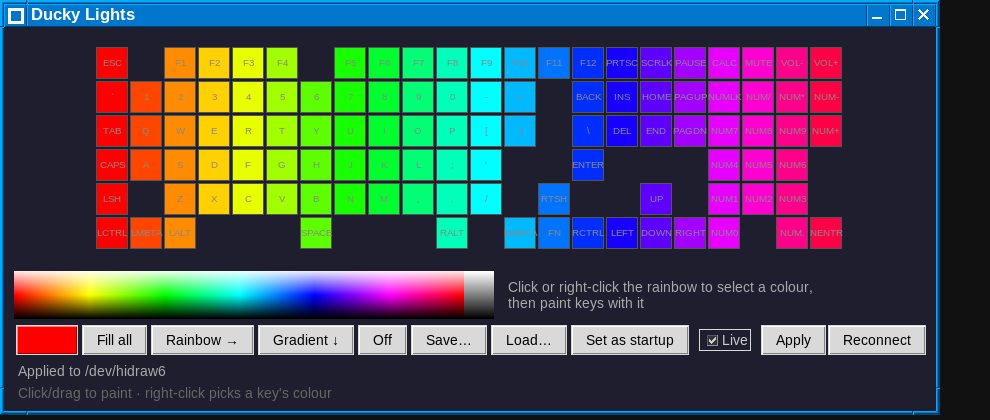
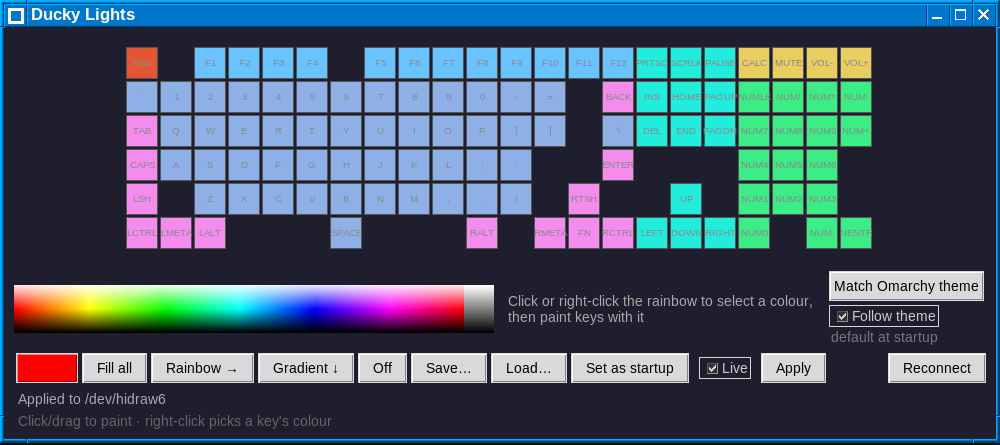
Follow the Omarchy theme by default; keep the UI responsive; panel/service lock
- Startup pattern defaults to the Omarchy theme when none is saved
- Keyboard writes run on a worker thread and fail fast, so the UI never blocks
- Panel holds a flock so the service steps aside while it is open
- Fix right Shift grouping, clipped Follow theme control, refresh screenshot

diff --git a/ducky_lights.py b/ducky_lights.py
@@ -4,11 +4,13 @@
 Protocol from javitonino/duckylights (GPL-2.0). No dependencies beyond Tk.
 """
 import colorsys
+import fcntl
 import glob
 import json
 import os
 import select
 import sys
+import threading
 import tomllib
 import tkinter as tk
 from tkinter import colorchooser, filedialog, messagebox
@@ -18,6 +20,7 @@ ROWS, COLS = 6, 22
 PAL_W, PAL_H = 480, 48
 PROFILE_DIR = os.path.expanduser('~/.config/ducky-lights')
 THEME = os.path.expanduser('~/.local/state/omarchy/current/theme/colors.toml')
+LOCK = os.path.expanduser('~/.cache/ducky-lights/panel.lock')  # held by the panel while open
 ACTIVE = os.path.join(PROFILE_DIR, 'active.json')  # applied at login by the service
 
 # Inferred from the duckylights ES layout; colour index is col * ROWS + row.
@@ -66,8 +69,9 @@ class Keyboard:
     def _write(self, hexmsg):
         data = bytes.fromhex(hexmsg).ljust(64, b'\0')
         os.write(self.fd, data)
-        if select.select([self.fd], [], [], 0.5)[0]:
-            os.read(self.fd, 256)
+        if not select.select([self.fd], [], [], 0.3)[0]:
+            raise OSError('keyboard did not answer')
+        os.read(self.fd, 256)
 
     def apply(self, colors):
         """colors: list of ROWS*COLS 'rrggbb' strings, index = col*ROWS+row."""
@@ -110,6 +114,24 @@ def load_colors(path):
     return cols
 
 
+def startup_colors():
+    """The pattern to show at login: the saved one, else the Omarchy theme (the default)."""
+    if os.path.exists(ACTIVE):
+        return load_colors(ACTIVE)
+    return theme_colors()
+
+
+def following_theme():
+    """True when the startup pattern follows the theme, explicitly or by default."""
+    try:
+        d = json.load(open(ACTIVE))
+        return isinstance(d, dict) and bool(d.get('theme'))
+    except FileNotFoundError:
+        return os.path.exists(THEME)
+    except ValueError:
+        return False
+
+
 def theme_palette():
     with open(THEME, 'rb') as f:
         return tomllib.load(f)
@@ -122,7 +144,7 @@ GROUPS = [
     ('cyan', {'PRTSC', 'SCRLK', 'PAUSE', 'INS', 'HOME', 'PAGUP', 'DEL', 'END',
               'PAGDN', 'UP', 'DOWN', 'LEFT', 'RIGHT'}),
     ('yellow', {'CALC', 'MUTE', 'VOL-', 'VOL+'}),
-    ('magenta', {'LSH', 'RSH', 'LCTRL', 'RCTRL', 'LALT', 'RALT', 'LMETA', 'RMETA',
+    ('magenta', {'LSH', 'RTSH', 'LCTRL', 'RCTRL', 'LALT', 'RALT', 'LMETA', 'RMETA',
                  'FN', 'CAPS', 'TAB', 'BACK', 'ENTER'}),
 ]
 
@@ -145,20 +167,49 @@ def theme_colors():
     return out
 
 
+def lock_fd():
+    os.makedirs(os.path.dirname(LOCK), exist_ok=True)
+    return os.open(LOCK, os.O_RDWR | os.O_CREAT, 0o600)
+
+
+def panel_open():
+    """True while a panel holds the lock. The OS drops the lock if the panel dies."""
+    fd = lock_fd()
+    try:
+        fcntl.flock(fd, fcntl.LOCK_EX | fcntl.LOCK_NB)
+        return False
+    except BlockingIOError:
+        return True
+    finally:
+        os.close(fd)
+
+
 def daemon():
     """Hold the saved startup pattern on the keyboard; follow edits and replugs."""
     import time
     kb, mtime, last = None, None, 0
     while True:
         try:
-            m = os.path.getmtime(ACTIVE) if os.path.exists(ACTIVE) else None
-            if m and os.path.exists(THEME):
-                m = (m, os.path.getmtime(THEME), os.path.realpath(THEME))
+            mt = lambda p: os.path.getmtime(p) if os.path.exists(p) else None
+            # Re-apply when the saved pattern or the theme changes. With no saved
+            # pattern the default is to follow the theme, so only the theme counts.
+            m = (mt(ACTIVE), mt(THEME), os.path.realpath(THEME))
+            if m[0] is None and m[1] is None:
+                time.sleep(0.5)  # nothing to show: no saved pattern and no Omarchy theme
+                continue
+            if panel_open():
+                # Let the panel have the keyboard alone. Closing the handle
+                # without leaving programming mode keeps the lights as they are.
+                if kb:
+                    os.close(kb.fd)
+                    kb = None
+                time.sleep(0.5)
+                continue
             if kb is None:
                 kb = Keyboard()
                 mtime = None
             if m and (m != mtime or time.time() - last > 15):
-                kb.apply(frame(load_colors(ACTIVE)))
+                kb.apply(frame(startup_colors()))
                 mtime, last = m, time.time()
         except (OSError, ValueError, AssertionError) as e:
             print('ducky-lights:', e, file=sys.stderr, flush=True)
@@ -168,7 +219,7 @@ def daemon():
                 except OSError:
                     pass
             kb = None
-        time.sleep(2)
+        time.sleep(0.5)
 
 
 def hexcol(rgb):
@@ -182,19 +233,30 @@ class App(tk.Tk):
         self.configure(bg='#1e1e2e')
         self.keys = parse_layout()
         self.colors = ['ffffff'] * (ROWS * COLS)
+        try:
+            self.colors = startup_colors()  # show what the keyboard shows at login
+        except (OSError, ValueError, AssertionError):
+            pass
         self.brush = tk.StringVar(value='ff0000')
         self.live = tk.BooleanVar(value=True)
         self.status = tk.StringVar()
         self.kb = None
+        self._cv = threading.Condition()
+        self._pending, self._stop, self._msg = None, False, None
         self.rects = {}
         self.connect()
+        self._thread = threading.Thread(target=self._worker, daemon=True)
+        self._thread.start()
+        self.after(200, self._poll_msg)
         self.build()
         os.makedirs(PROFILE_DIR, exist_ok=True)
 
     def connect(self):
         try:
             self.kb = Keyboard()
-            self.status.set(f'Connected: {self.kb.path}')
+            self.status.set(f'Connected: {self.kb.path}. Startup pattern: ' + (
+                'follows the Omarchy theme (default)' if following_theme()
+                else 'your saved pattern'))
         except (FileNotFoundError, PermissionError) as e:
             self.kb = None
             hint = ' - run ./install.sh once' if isinstance(e, PermissionError) else ''
@@ -223,12 +285,14 @@ class App(tk.Tk):
                  'then paint keys with it', bg='#1e1e2e', fg='#aaa',
                  justify='left').pack(side='left', padx=12)
 
-        self.follow = tk.BooleanVar(value=self.following())
-        tk.Button(pal, text='Match Omarchy theme', command=self.match_theme).pack(
-            side='right', padx=2)
-        tk.Checkbutton(pal, text='Follow theme', variable=self.follow, bg='#1e1e2e',
-                       fg='#ccc', selectcolor='#333', command=self.toggle_follow).pack(
-            side='right', padx=8)
+        self.follow = tk.BooleanVar(value=following_theme())
+        theme = tk.Frame(pal, bg='#1e1e2e')
+        theme.pack(side='right', padx=2)
+        tk.Button(theme, text='Match Omarchy theme', command=self.match_theme).pack(fill='x')
+        tk.Checkbutton(theme, text='Follow theme', variable=self.follow, bg='#1e1e2e',
+                       fg='#ccc', selectcolor='#333', activebackground='#1e1e2e',
+                       command=self.toggle_follow).pack(anchor='w', pady=(4, 0))
+        tk.Label(theme, text='default at startup', bg='#1e1e2e', fg='#777').pack(anchor='w')
 
         bar = tk.Frame(self, bg='#1e1e2e')
         bar.pack(fill='x', padx=10)
@@ -341,22 +405,48 @@ class App(tk.Tk):
             self.apply()
 
     def apply(self):
+        """Queue the current pattern for the worker; never blocks the UI."""
         self._after = None
         if not self.kb:
             return
-        try:
-            self.kb.apply(frame(self.colors))
-            self.status.set(f'Applied to {self.kb.path}')
-        except OSError as e:
-            self.status.set(f'Write failed: {e} (try Reconnect)')
+        with self._cv:
+            self._pending = frame(self.colors)
+            self._cv.notify()
 
-    @staticmethod
-    def following():
-        try:
-            d = json.load(open(ACTIVE))
-            return isinstance(d, dict) and bool(d.get('theme'))
-        except (OSError, ValueError):
-            return False
+    def _worker(self):
+        """Sends only the newest queued frame, so a slow keyboard can't pile up writes."""
+        while True:
+            with self._cv:
+                while self._pending is None and not self._stop:
+                    self._cv.wait()
+                if self._pending is None:
+                    return
+                out, self._pending = self._pending, None
+            kb = self.kb
+            if not kb:
+                continue
+            try:
+                kb.apply(out)
+                self._msg = f'Applied to {kb.path}'
+            except OSError as e:
+                self._msg = f'Write failed: {e} (try Reconnect)'
+
+    def _poll_msg(self):
+        if self._msg:
+            self.status.set(self._msg)
+            self._msg = None
+        self.after(200, self._poll_msg)
+
+    def shutdown(self, final=None):
+        """Stop the worker (after it sends `final`, if any) and release the keyboard."""
+        with self._cv:
+            if final is not None:
+                self._pending = final
+            self._stop = True
+            self._cv.notify()
+        self._thread.join(5)
+        if self.kb:
+            self.kb.close(leave_lights=final is not None)
 
     def set_startup(self):
         json.dump(self.colors, open(ACTIVE, 'w'))
@@ -378,7 +468,7 @@ class App(tk.Tk):
 
     def toggle_follow(self):
         if not self.follow.get():
-            self.status.set('No longer following the theme (startup pattern unchanged)')
+            self.set_startup()  # keep the current pattern instead of the theme
             return
         if self.match_theme():
             json.dump({'theme': True}, open(ACTIVE, 'w'))
@@ -388,7 +478,8 @@ class App(tk.Tk):
 
     def reconnect(self):
         if self.kb:
-            self.kb.close()
+            kb, self.kb = self.kb, None
+            kb.close()
         self.connect()
         self.apply()
 
@@ -413,22 +504,31 @@ class App(tk.Tk):
 
 
 def main():
+    import time
+    fd = lock_fd()
+    try:
+        fcntl.flock(fd, fcntl.LOCK_EX | fcntl.LOCK_NB)
+    except BlockingIOError:
+        sys.exit('ducky-lights: the panel is already open')
+    time.sleep(1)  # give the background service time to let go of the keyboard
     app = App()
     app.apply()
 
     def quit_():
-        if app.kb:
-            # If a startup pattern exists the service keeps the lights; don't
-            # leave programming mode, which would revert them.
-            if os.path.exists(ACTIVE):
-                try:
-                    app.kb.apply(frame(load_colors(ACTIVE)))
-                except (OSError, ValueError, AssertionError):
-                    pass
-            app.kb.close(leave_lights=os.path.exists(ACTIVE))
+        # If a startup pattern exists the service keeps the lights; send it
+        # and don't leave programming mode, which would revert them.
+        final = None
+        try:
+            final = frame(startup_colors())
+        except (OSError, ValueError, AssertionError):
+            pass
+        app.shutdown(final)
         app.destroy()
     app.protocol('WM_DELETE_WINDOW', quit_)
     app.mainloop()
+    # Everything is released; skip Tcl/Tk interpreter teardown, which can hang.
+    sys.stdout.flush()
+    os._exit(0)
 
 
 if __name__ == '__main__':

diff --git a/README.md b/README.md
@@ -7,6 +7,8 @@ dependencies.
 
 ![ducky-lights](docs/screenshot.png)
 
+*The panel with the Arc Blueberry theme active. Following the theme is the default, so nothing needs to be painted or saved first.*
+
 ## Use
 
 ```sh
@@ -25,9 +27,13 @@ keyboard as you paint.
 **Match Omarchy theme** paints the keyboard from the active theme's
 `colors.toml`: letters take the accent colour, function keys blue, the
 navigation cluster and arrows cyan, numpad green, media keys yellow,
-modifiers magenta, Esc red. Tick **Follow theme** to make that the startup
-pattern: the service then re-colours the keyboard whenever you change theme.
-**Set as startup** switches back to a fixed pattern.
+modifiers magenta, Esc red.
+
+**Following the theme is the default.** With no saved pattern, the service
+(and the panel's "Follow theme" box, ticked and marked "default at startup") shows the theme on the
+keyboard and re-colours it whenever you change theme. **Set as startup**, or
+unticking **Follow theme**, saves the current pattern instead; ticking the box
+again goes back to following.
 
 Theme following is specific to [Omarchy](https://omarchy.org/). It reads
 `~/.local/state/omarchy/current/theme/colors.toml`, which Omarchy rewrites on
@@ -42,10 +48,18 @@ Python 3.11+ is needed for the TOML parser.
 ./install-service.sh
 ```
 
-Then click **Set as startup** in the panel. A systemd user service
+That's all that's needed on Omarchy: with no saved pattern the keyboard follows
+the current theme. To use a fixed pattern instead, paint it in the panel and
+click **Set as startup**. A systemd user service
 (`ducky_lights.py --daemon`) applies that pattern, re-applies it every 15 s
 and after the keyboard is replugged. The installer fills in the repo path, so it can live anywhere. Re-run it if you move the repo.
 Stop it with `systemctl --user disable --now ducky-lights`.
+
+While the panel is open the service steps aside so only one program talks to
+the keyboard: the panel holds a lock on `~/.cache/ducky-lights/panel.lock`,
+the service sees it and lets go of the keyboard (the lights stay as they are),
+and takes over again with your startup pattern when the panel closes. The lock
+is released by the OS if the panel crashes, so the service always recovers.
 
 ## Limits
 
